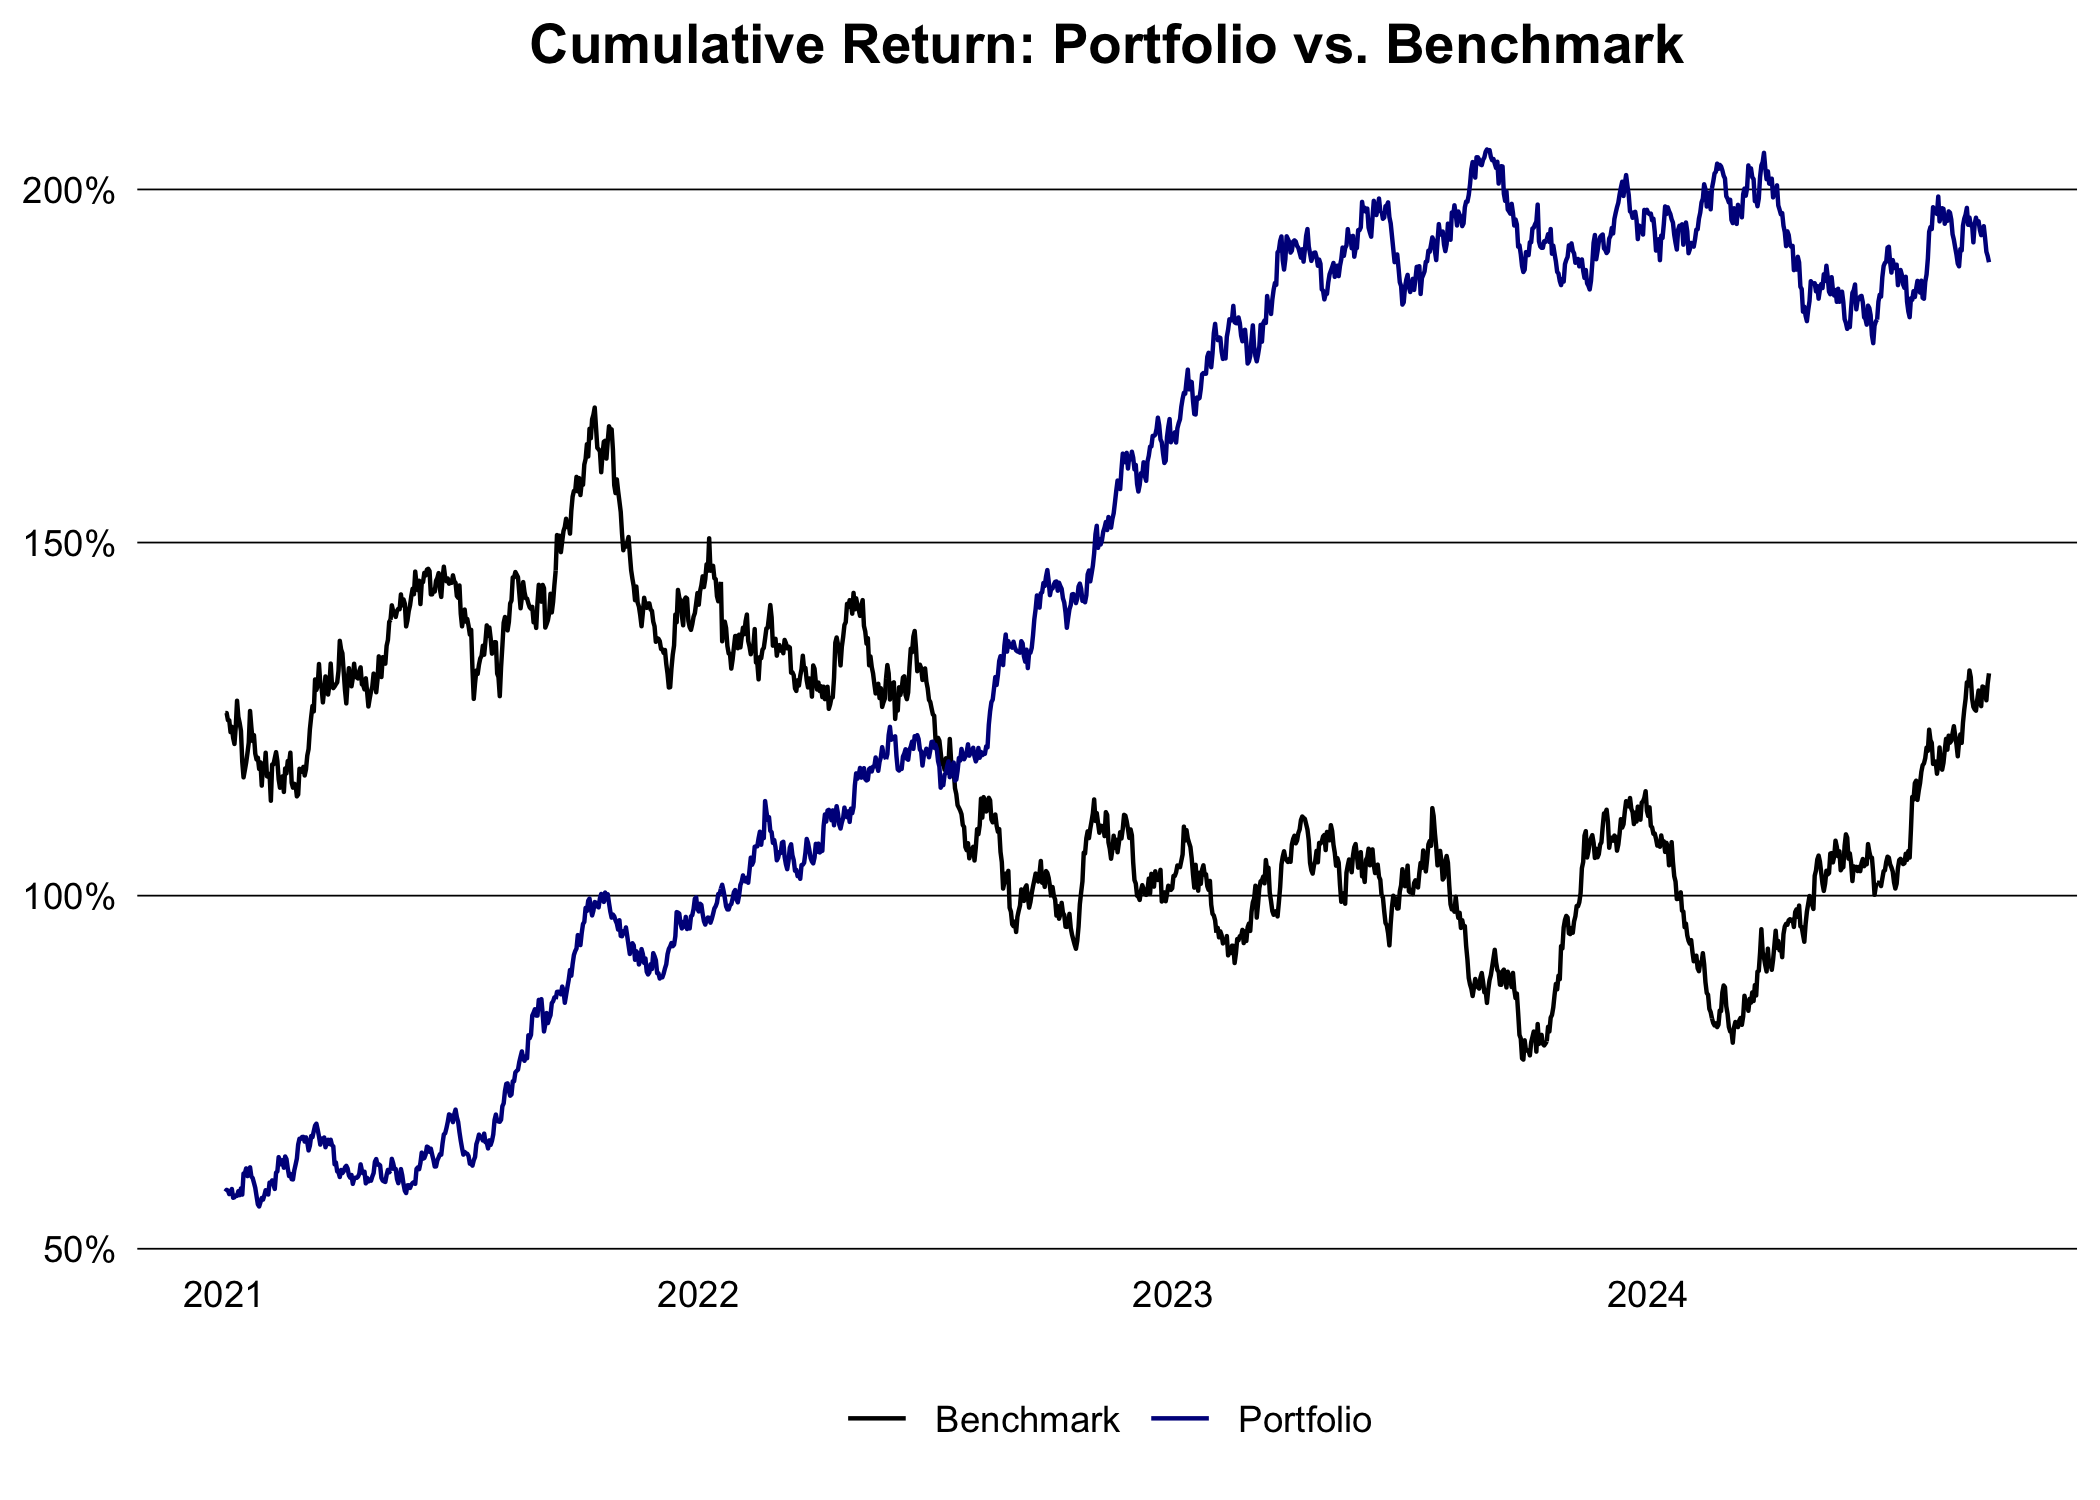
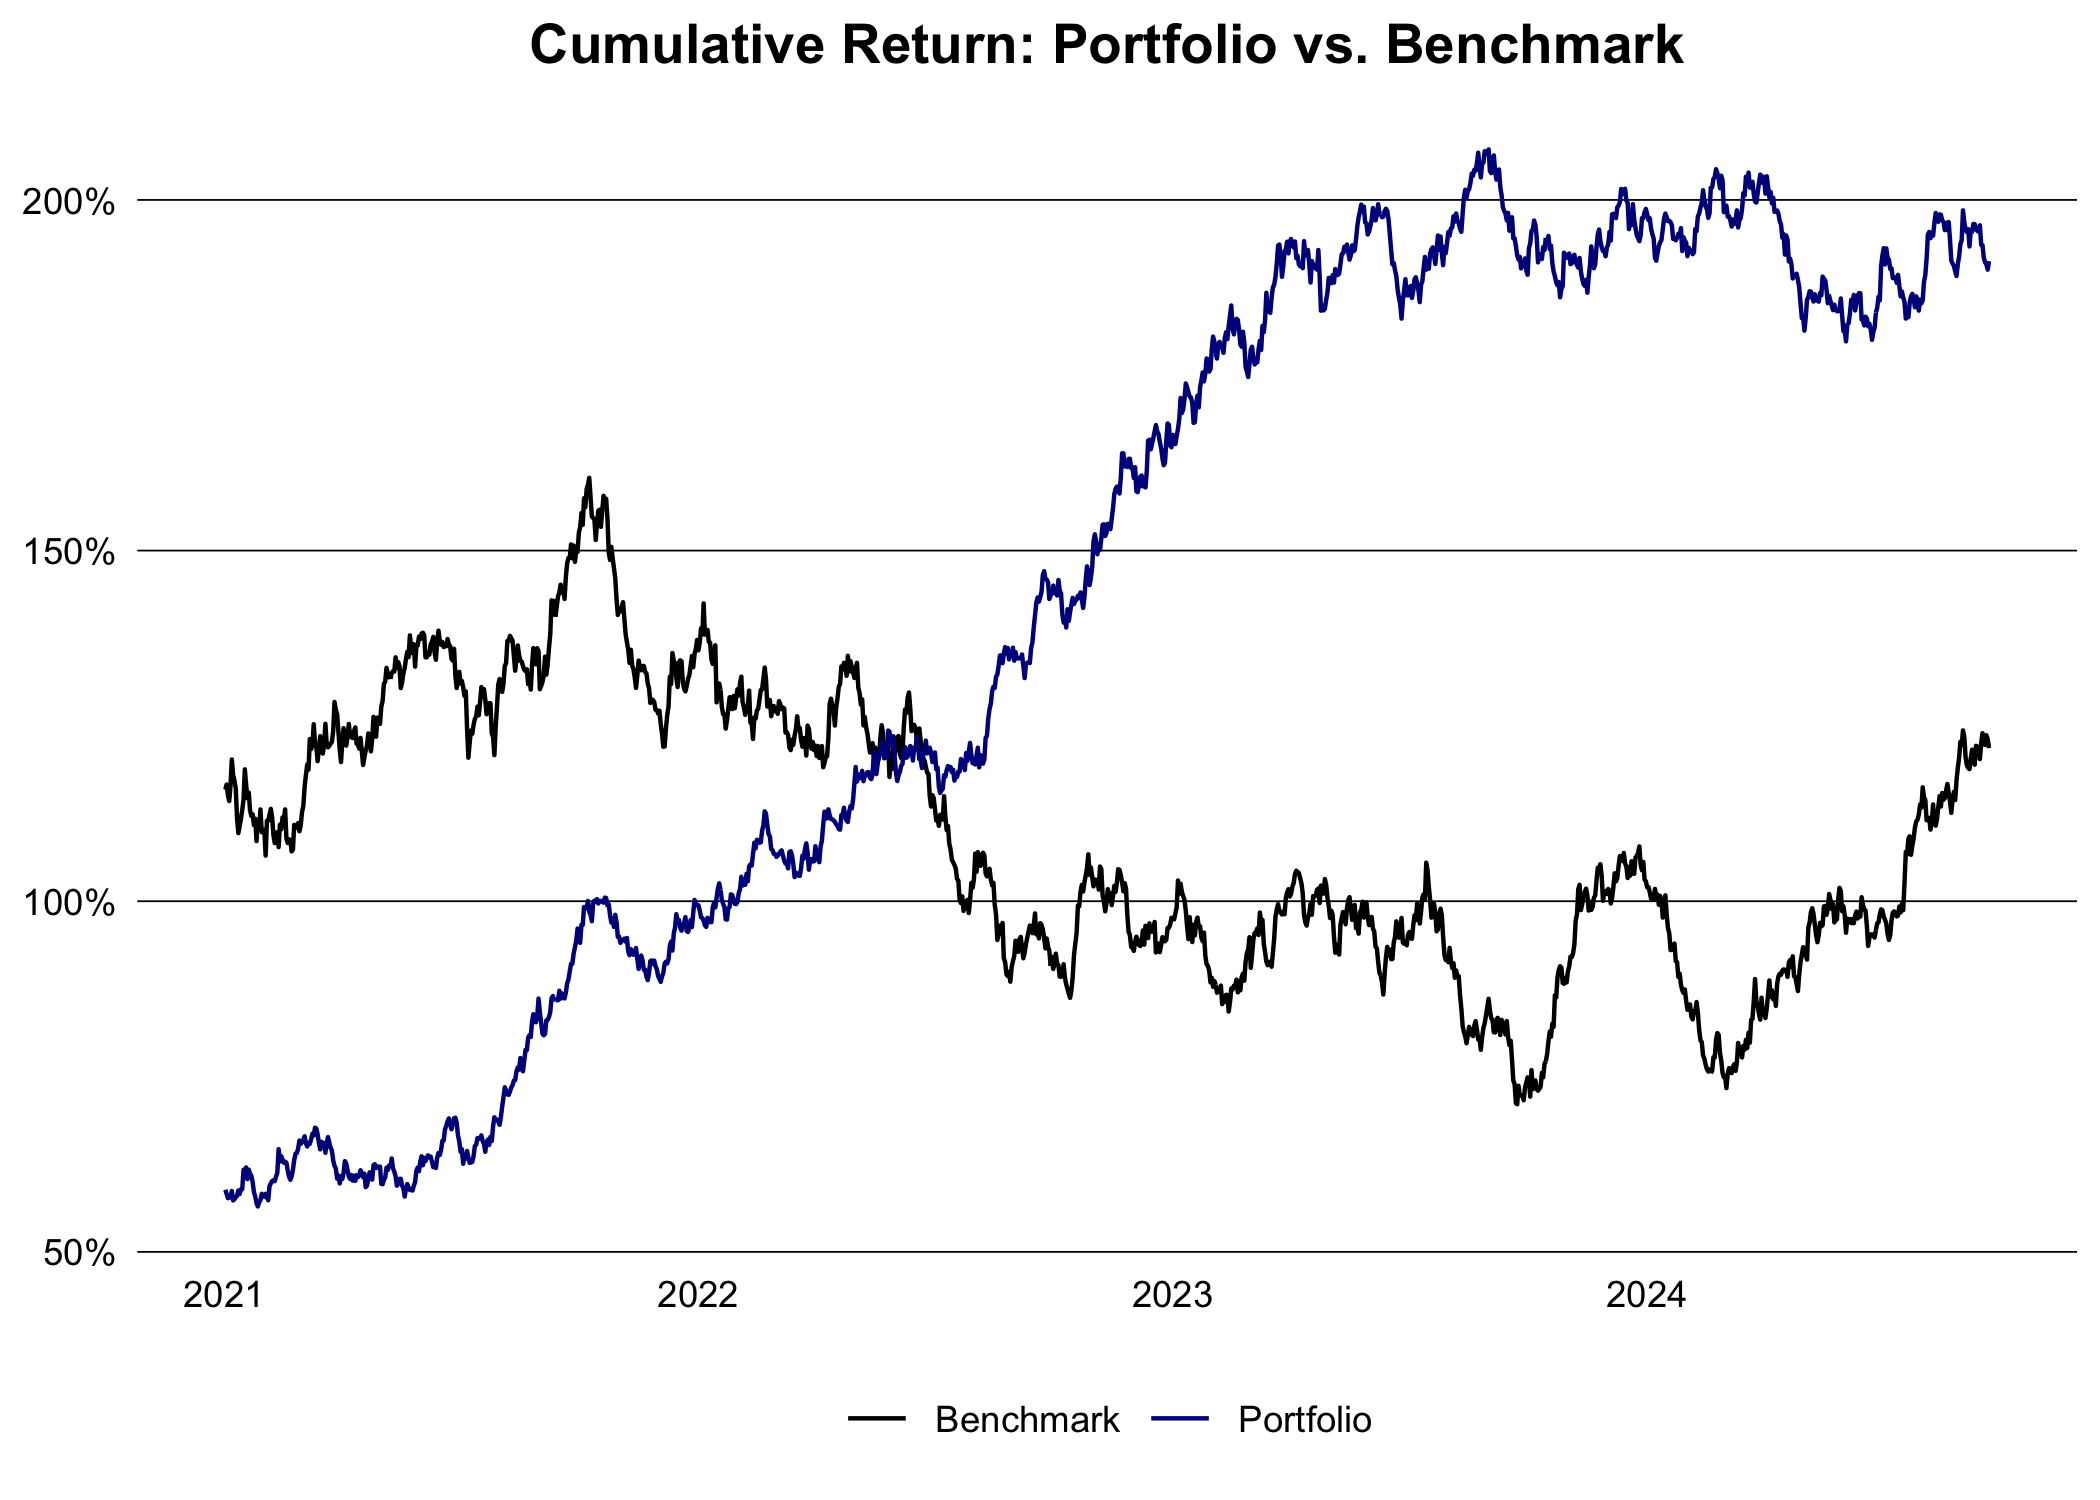
title change

diff --git a/README.md b/README.md
@@ -1,8 +1,7 @@
-# data.table finance notes
+# Finance with data.table Notes
 
-The goal of this document is to document common financial calculations
-using the `data.table` package using the latest `R >= 4.4` and
-`data.table >= 1.16` syntax.
+Just a place to store some code snippets and notes on finance with using
+the latest `data.table` package.
 
 Load the required libraries:
 
@@ -154,12 +153,12 @@ head(port_ret_year)
 
         year         ret
        <int>       <num>
-    1:  2015  0.18005455
-    2:  2016  0.21100059
-    3:  2017  0.12464566
-    4:  2018  0.10376614
-    5:  2019 -0.17348333
-    6:  2020  0.06867406
+    1:  2015  0.19086576
+    2:  2016  0.19909201
+    3:  2017  0.11799043
+    4:  2018  0.11936710
+    5:  2019 -0.17865391
+    6:  2020  0.07699751
 
 #### Compare performance with a benchmark
 
@@ -291,7 +290,7 @@ port_risk
 ```
 
                 [,1]
-    [1,] 0.005413025
+    [1,] 0.005421037
 
 #### TODO:
 
